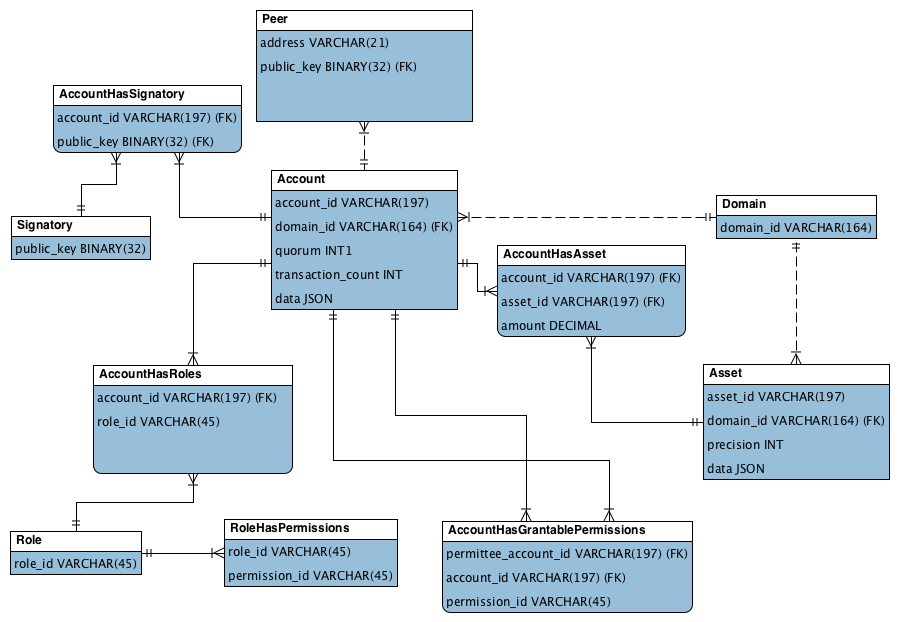
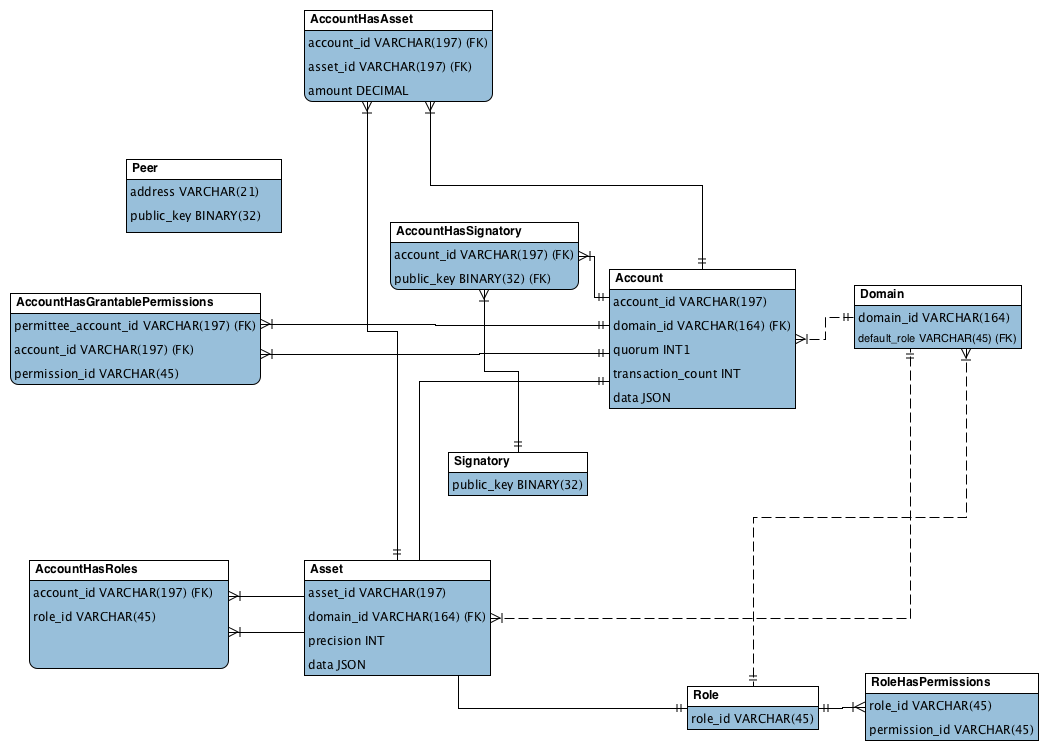
Add field description, correct ER model

diff --git a/source/includes/_er-model.md b/source/includes/_er-model.md
@@ -3,3 +3,69 @@
 This section describes the contents of World State View, or in other words — the state of entities as per the latest block in the chain.
 
 ![ER Model](../images/er-model.png "Entity-relationship model")
+
+## Peer
+
+ * address — network address and internal port, is used for synchronization, consensus, and communication with the ordering service
+ * public_key — key, which will be used for signing blocks during consensus process
+
+## Asset
+
+ * asset_id — identifier of asset, formatted as asset_name#domain_id
+ * domain_id — identifier of domain, where the asset was created, references existing domain
+ * precision — size of fractional part
+ * data — JSON with arbitrary structure of asset description
+
+## Signatory
+
+* public_key — a public key
+
+## Domain
+
+* domain_id — identifier of a domain
+* default_role — a default role per user created in the domain, references existing role
+
+## Role
+
+* role_id — identifier of role
+
+### RoleHasPermissions
+
+* role_id — identifier of role, references existing role
+* permission_id — an id of predefined role
+
+## Account
+
+* account_id — identifier of account, formatted as account_name@domain_id
+* domain_id — identifier of domain where the account was created, references existing domain 
+* quorum — number of signatories required for creation of valid transaction from this account
+* transaction_count – counter of transactions created by this account
+* data — key-value storage for any information, related to the account
+
+### AccountHasSignatory
+
+* account_id — identifier of account, references existing account 
+* public_key — a public key (which is also called signatory), references existing signatory
+
+### AccountHasAsset
+
+* account_id — identifier of account, references existing account 
+* asset_id — identifier of asset, references existing asset
+* amount — an amount of the asset, belonging to the account
+
+### AccountHasRoles
+
+* account_id — identifier of account, references existing account 
+* role_id — identifier of role, references existing role
+
+### AccountHasGrantablePermissions
+
+* account_id — identifier of account, references existing account. This account gives grantable permission to perform operation over itself to permittee.
+* permittee_account_id — identifier of account, references existing account. This account is given permission to perform operation over account_id.
+* permission_id — identifier of grantable_permission
+
+
+
+
+
+
